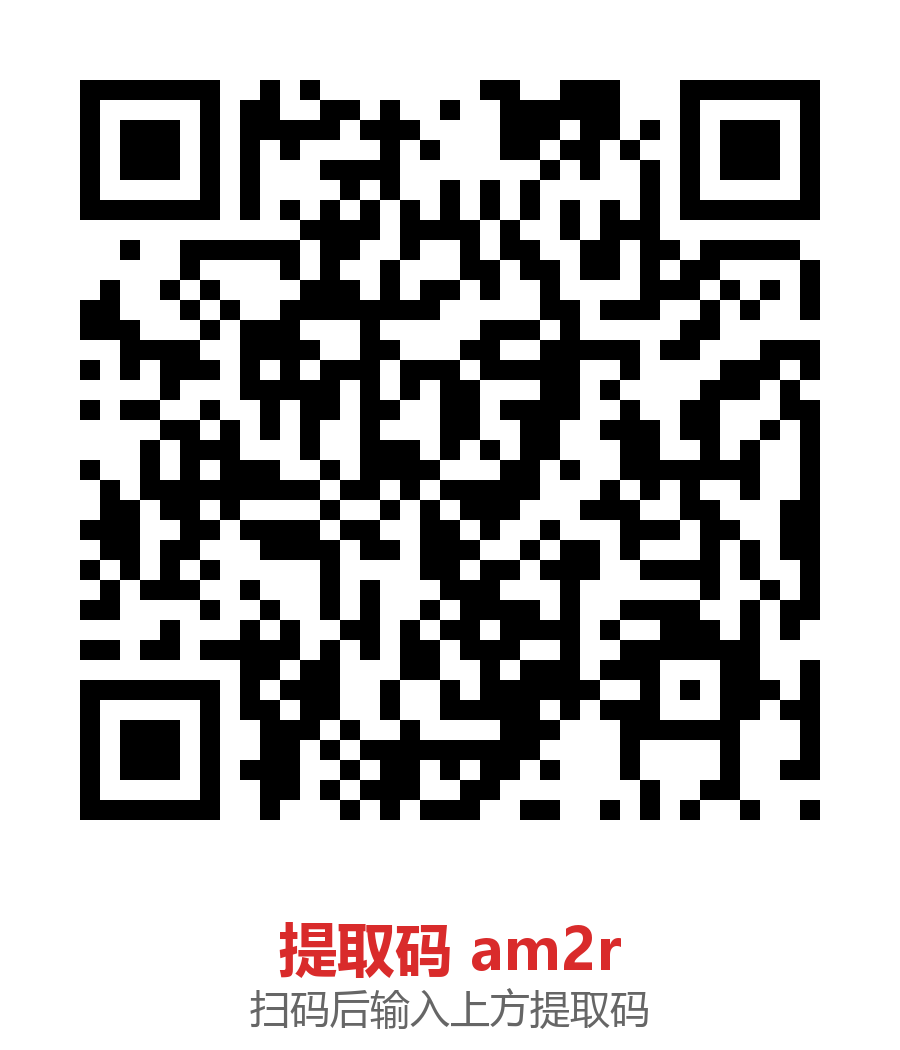
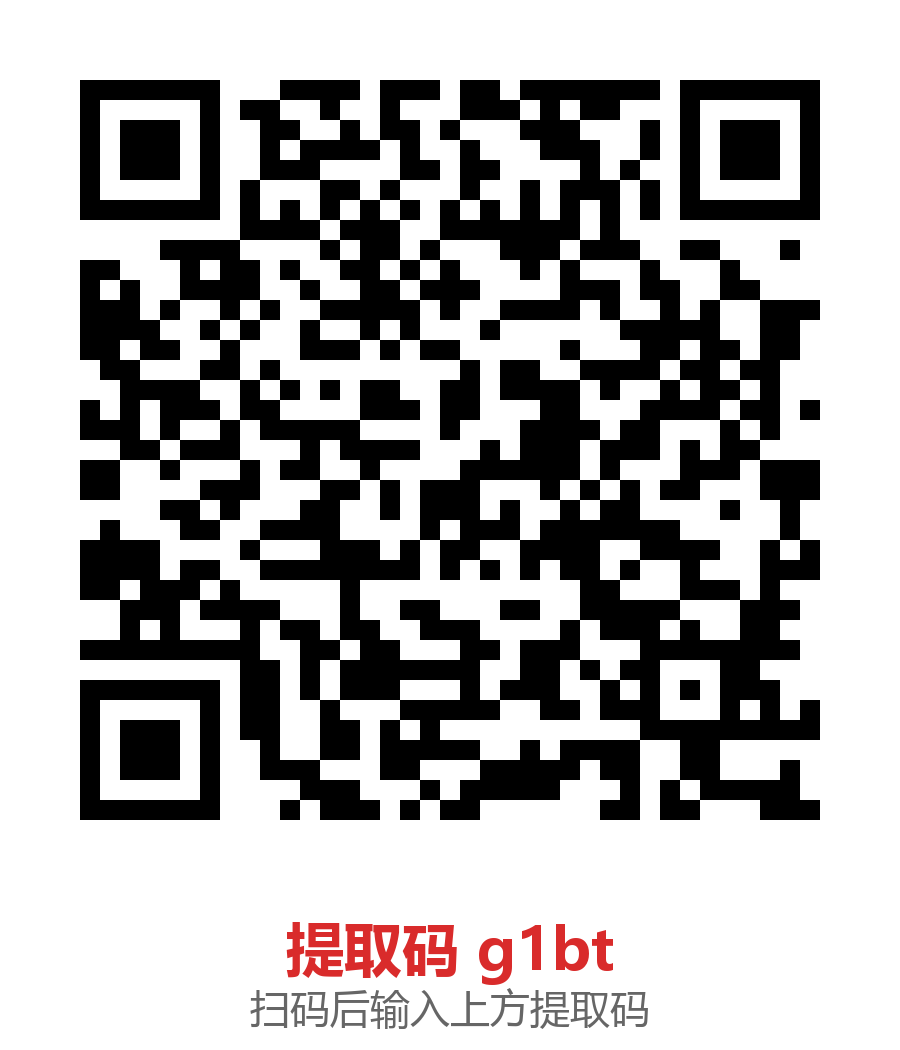
蓝奏云换包 1.2.4：更新链接与提取码 g1bt，重做二维码和推广图

Changed region(s): [[0.0622, 0.061, 0.9333, 0.7924], [0.3111, 0.8533, 0.6844, 0.9448]]

diff --git a/docs/index.html b/docs/index.html
@@ -88,8 +88,8 @@
       <img src="qr-lanzou.png" alt="蓝奏云二维码" width="92" height="92" style="border-radius:8px;flex:0 0 auto">
       <div>
         <b>蓝奏云</b>
-        <p style="margin-top:4px">扫码或点链接下载，<b>提取码 am2r</b></p>
-        <p style="margin-top:6px"><a href="https://wwazc.lanzoum.com/iq6664g1zgeh" style="color:#2563eb">wwazc.lanzoum.com/iq6664g1zgeh</a></p>
+        <p style="margin-top:4px">扫码或点链接下载，<b>提取码 g1bt</b></p>
+        <p style="margin-top:6px"><a href="https://wwazc.lanzoum.com/i6P5D4g2h06b" style="color:#2563eb">wwazc.lanzoum.com/i6P5D4g2h06b</a></p>
       </div>
     </div>
     <div class="card">
